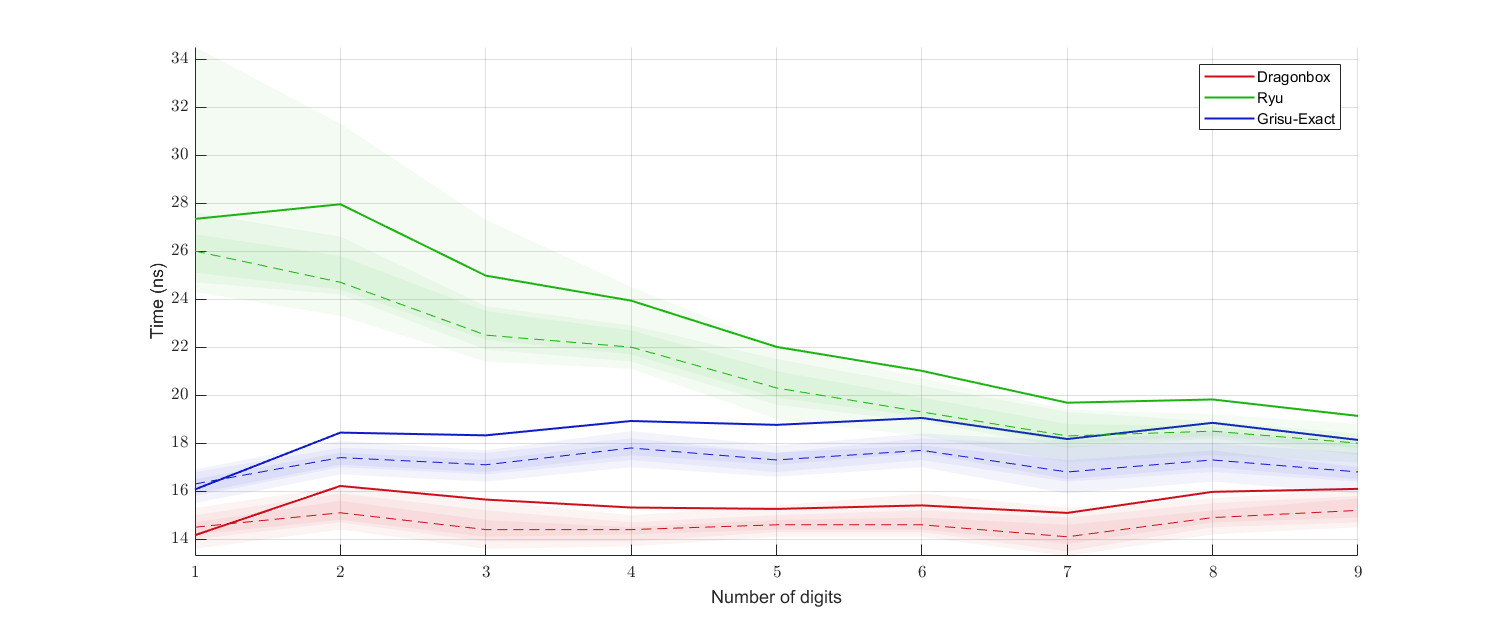
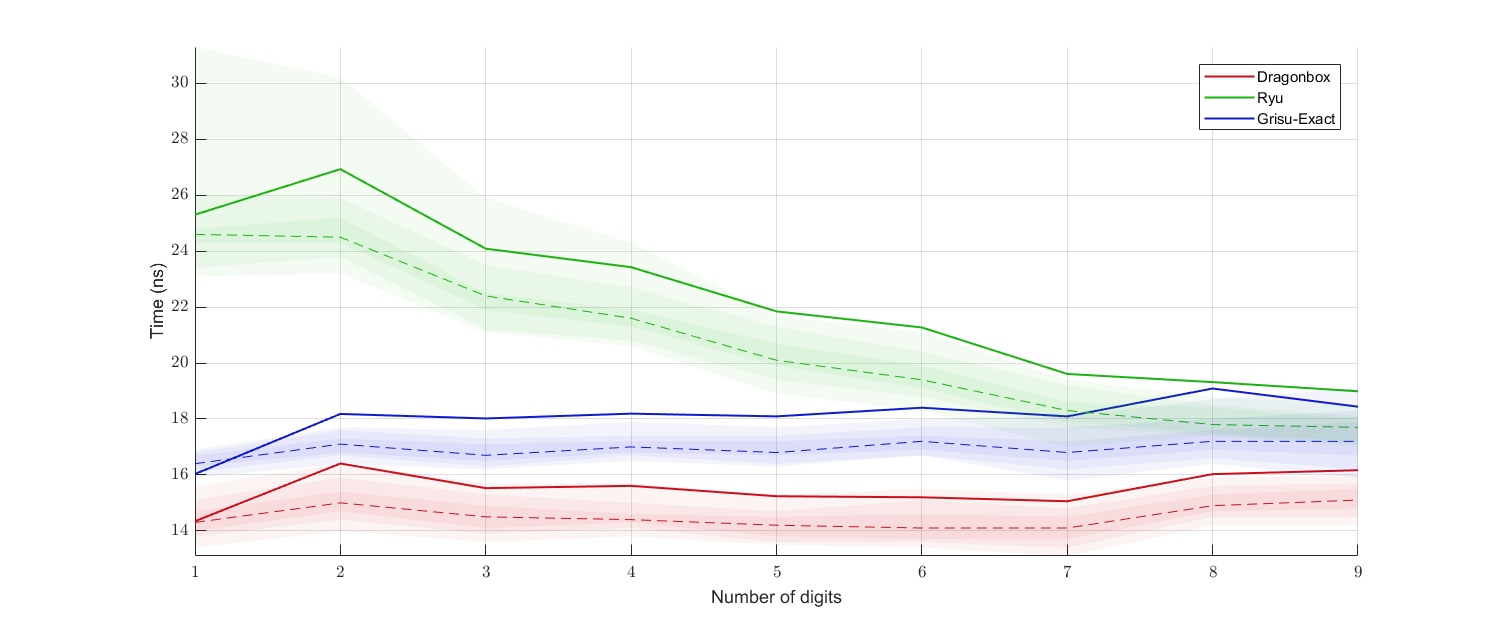
Fix a small bug; rerun benchmark

diff --git a/dragonbox.h b/dragonbox.h
@@ -361,8 +361,7 @@ namespace jkj::dragonbox {
 			};
 
 			// Get 128-bit result of multiplication of two 64-bit unsigned integers
-			JKJ_SAFEBUFFERS
-			inline uint128 umul128(std::uint64_t x, std::uint64_t y) noexcept {
+			JKJ_SAFEBUFFERS inline uint128 umul128(std::uint64_t x, std::uint64_t y) noexcept {
 #if (defined(__GNUC__) || defined(__clang__)) && defined(__SIZEOF_INT128__) && defined(__x86_64__)
 				return (unsigned __int128)(x) * (unsigned __int128)(y);
 #elif defined(_MSC_VER) && defined(_M_X64)
@@ -389,8 +388,7 @@ namespace jkj::dragonbox {
 #endif
 			}
 
-			JKJ_SAFEBUFFERS
-			inline std::uint64_t umul128_upper64(std::uint64_t x, std::uint64_t y) noexcept {
+			JKJ_SAFEBUFFERS inline std::uint64_t umul128_upper64(std::uint64_t x, std::uint64_t y) noexcept {
 #if (defined(__GNUC__) || defined(__clang__)) && defined(__SIZEOF_INT128__) && defined(__x86_64__)
 				auto p = (unsigned __int128)(x) * (unsigned __int128)(y);
 				return std::uint64_t(p >> 64);
@@ -416,8 +414,7 @@ namespace jkj::dragonbox {
 			}
 
 			// Get upper 64-bits of multiplication of a 64-bit unsigned integer and a 128-bit unsigned integer
-			JKJ_SAFEBUFFERS
-			inline std::uint64_t umul192_upper64(std::uint64_t x, uint128 y) noexcept {
+			JKJ_SAFEBUFFERS inline std::uint64_t umul192_upper64(std::uint64_t x, uint128 y) noexcept {
 				auto g0 = umul128(x, y.high());
 				auto g10 = umul128_upper64(x, y.low());
 
@@ -440,15 +437,13 @@ namespace jkj::dragonbox {
 			}
 
 			// Get middle 64-bits of multiplication of a 64-bit unsigned integer and a 128-bit unsigned integer
-			JKJ_SAFEBUFFERS
-			inline std::uint64_t umul192_middle64(std::uint64_t x, uint128 y) noexcept {
+			JKJ_SAFEBUFFERS inline std::uint64_t umul192_middle64(std::uint64_t x, uint128 y) noexcept {
 				auto g01 = x * y.high();
 				auto g10 = umul128_upper64(x, y.low());
 				return g01 + g10;
 			}
 
 			// Get middle 32-bits of multiplication of a 32-bit unsigned integer and a 64-bit unsigned integer
-			JKJ_SAFEBUFFERS
 			inline std::uint64_t umul96_lower64(std::uint32_t x, std::uint64_t y) noexcept {
 				return x * y;
 			}
@@ -492,7 +487,7 @@ namespace jkj::dragonbox {
 				std::uint32_t s_integer_part = 0,
 				std::uint64_t s_fractional_digits = 0
 			>
-				constexpr int compute(int e) noexcept {
+			constexpr int compute(int e) noexcept {
 				assert(e <= max_exponent && e >= -max_exponent);
 				constexpr auto c = floor_shift(c_integer_part, c_fractional_digits, shift_amount);
 				constexpr auto s = floor_shift(s_integer_part, s_fractional_digits, shift_amount);
@@ -2094,7 +2089,7 @@ namespace jkj::dragonbox {
 			template <trailing_zero_policy tzp,
 				correct_rounding::tag_t correct_rounding_tag,
 				bool has_sign, class IntervalType>
-			JKJ_FORCEINLINE static void shorter_interval_case(
+			JKJ_FORCEINLINE JKJ_SAFEBUFFERS static void shorter_interval_case(
 				fp_t<Float, has_sign, tzp == trailing_zero_policy::report>& ret_value,
 				int exponent, IntervalType interval_type) noexcept
 			{
@@ -2195,7 +2190,7 @@ namespace jkj::dragonbox {
 				// Step 1: integer promotion & Schubfach multiplier calculation
 				//////////////////////////////////////////////////////////////////////
 
-				fp_t<Float, return_sign> ret_value;
+				fp_t<Float, return_sign, tzp == trailing_zero_policy::report> ret_value;
 
 				if constexpr (return_sign) {
 					ret_value.is_negative = br.is_negative();
@@ -2296,7 +2291,7 @@ namespace jkj::dragonbox {
 				// Step 1: integer promotion & Schubfach multiplier calculation
 				//////////////////////////////////////////////////////////////////////
 
-				fp_t<Float, return_sign> ret_value;
+				fp_t<Float, return_sign, tzp == trailing_zero_policy::report> ret_value;
 
 				if constexpr (return_sign) {
 					ret_value.is_negative = br.is_negative();

diff --git a/tests/main.cpp b/tests/main.cpp
@@ -94,7 +94,7 @@ extern void benchmark_test_float(std::size_t number_of_uniform_samples,
 	std::size_t number_of_digits_samples_per_digits, std::size_t number_of_iterations);
 
 // Do benchmark for binary64
-//#define BENCHMARK_TEST_DOUBLE
+#define BENCHMARK_TEST_DOUBLE
 static std::size_t number_of_uniform_benchmark_samples_double = 1000000;
 static std::size_t number_of_digits_benchmark_samples_per_digits_double = 100000;
 static std::size_t number_of_benchmark_iterations_double = 1000;

diff --git a/tests/perf_test.cpp b/tests/perf_test.cpp
@@ -15,7 +15,7 @@
 // is distributed on an "AS IS" BASIS, WITHOUT WARRANTIES OR CONDITIONS OF ANY
 // KIND, either express or implied.
 
-#include "../to_chars.h"
+#include "../dragonbox_to_chars.h"
 #include "random_float.h"
 #include <iostream>
 
